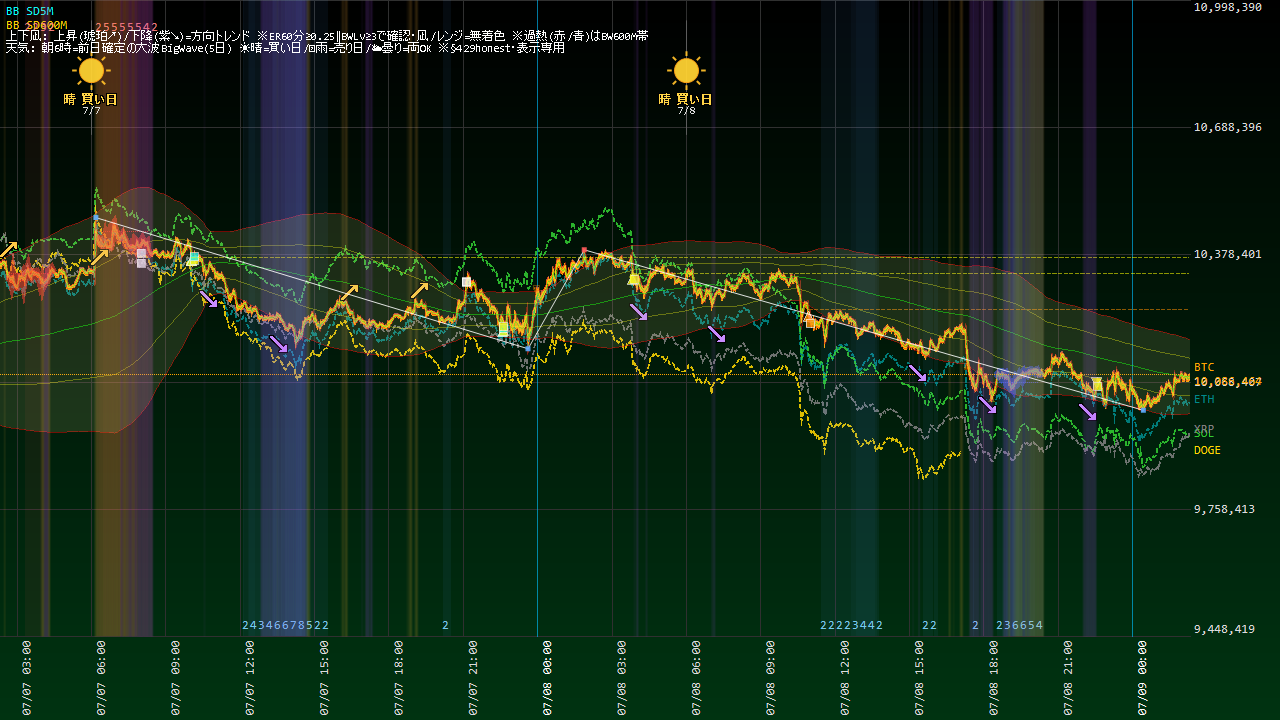
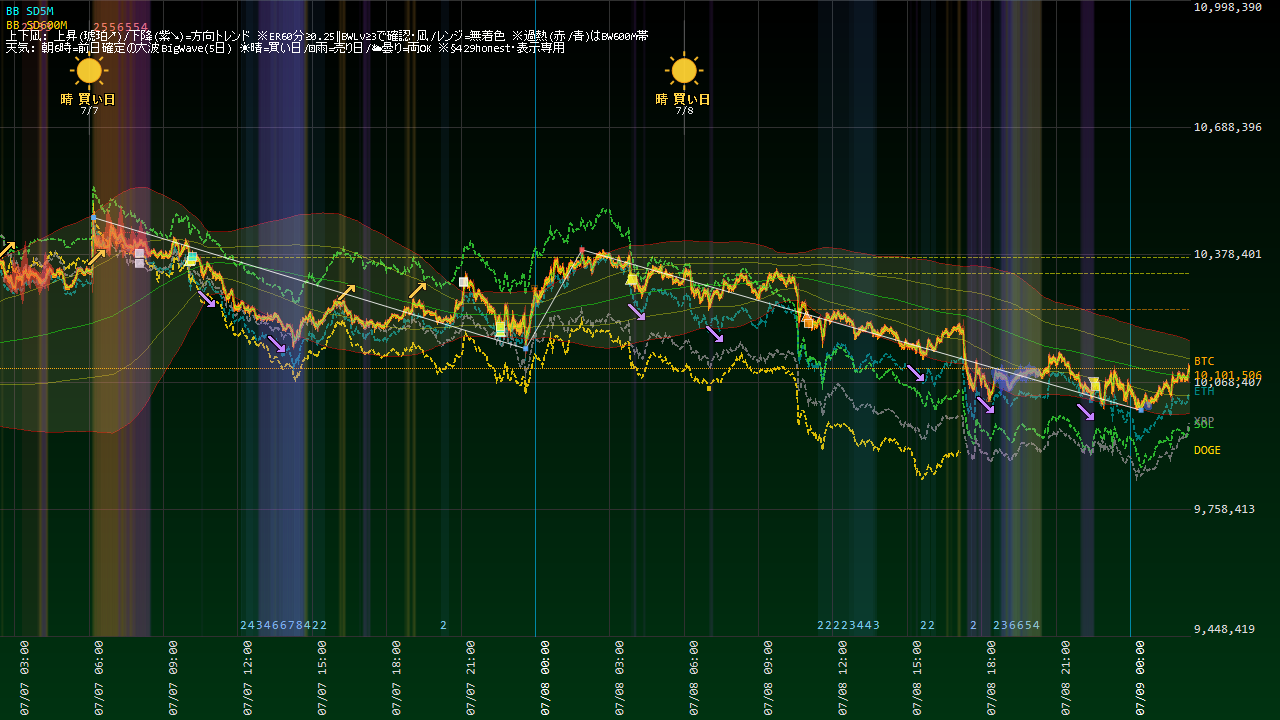
Coin100S 運用状況更新 07-09 02:29

diff --git a/coin100s-795hc4jfv8/index.html b/coin100s-795hc4jfv8/index.html
@@ -14,7 +14,7 @@ a{color:#60a5fa;text-decoration:none} a:hover{text-decoration:underline}
 .meta{color:#94a3b8;font-size:13px}</style>
 <script>setTimeout(function(){location.replace(location.pathname+"?t="+Date.now());},300000);</script></head><body>
 <h1>Coin100S ダッシュボード</h1>
-<p class="meta">スナップショット: 2026-07-09 02:22:57(自動リロード・最新化)</p>
+<p class="meta">スナップショット: 2026-07-09 02:28:57(自動リロード・最新化)</p>
 <div class="cards">
 <div class="card">建玉数<div class="v">0</div></div>
 <div class="card">本日損益<div class="v pos">+293円</div></div>
@@ -25,5 +25,5 @@ a{color:#60a5fa;text-decoration:none} a:hover{text-decoration:underline}
 <p><a href="status.html"><b>▶ 運用状況の詳細(チャート・本日の取引・レジーム)</b></a></p>
 <h2>日報一覧</h2>
 <table><tr><th>取引日</th><th>実現損益</th><th>総括</th></tr><tr><td><a href='reports/20260707_Coin100S日報.html'>2026-07-07</a></td><td class="pos">+0円</td><td class='meta'>実取引: 新規8件/決済6件、実現損益 +0円。シグナル却下4件（最多: SD120M_5M／トレンド方向ゲート(N分傾き上と不一致=逆張り方向のfade禁止)）。⚠警告/エラー 258件（要確認）。</td></tr><tr><td><a href='reports/20260706_Coin100S日報.html'>2026-07-06</a></td><td class="pos">+0円</td><td class='meta'>実取引: 新規9件/決済6件、実現損益 +0円。シグナル却下9件（最多: SD120M_5M／トレンド方向ゲート(N分傾き上と不一致=逆張り方向のfade禁止)）。⚠警告/エラー 150件（要確認）。</td></tr><tr><td><a href='reports/20260705_Coin100S日報.html'>2026-07-05</a></td><td class="pos">+0円</td><td class='meta'>実取引: 新規8件/決済3件、実現損益 +0円。⚠警告/エラー 2件（要確認）。</td></tr><tr><td><a href='reports/20260704_Coin100S日報.html'>2026-07-04</a></td><td class="pos">+0円</td><td class='meta'>実取引: 新規1件/決済2件、実現損益 +0円。⚠警告/エラー 2件（要確認）。</td></tr><tr><td><a href='reports/20260703_Coin100S日報.html'>2026-07-03</a></td><td class="pos">+0円</td><td class='meta'>実取引: 新規5件/決済4件、実現損益 +0円。⚠警告/エラー 15件（要確認）。</td></tr><tr><td><a href='reports/20260702_Coin100S日報.html'>2026-07-02</a></td><td class="pos">+0円</td><td class='meta'>実取引: 新規7件/決済5件、実現損益 +0円。シグナル却下17件（最多: SD120M_5M／トレンド方向ゲート(N分傾き上と不一致=逆張り方向のfade禁止)）。⚠警告/エラー 26件（要確認）。</td></tr><tr><td><a href='reports/20260701_Coin100S日報.html'>2026-07-01</a></td><td class="pos">+0円</td><td class='meta'>実取引: 新規14件/決済8件、実現損益 +0円。シグナル却下14件（最多: SD120M_5M／ボラ軸ゲート(SDN%&amp;gt;N%=高ボラ/荒れレンジ)）。⚠警告/エラー 2件（要確認）。</td></tr><tr><td><a href='reports/20260630_Coin100S日報.html'>2026-06-30</a></td><td class="pos">+0円</td><td class='meta'>実取引: 新規0件/決済1件、実現損益 +0円。シグナル却下29件（最多: 微5M／当日枠N）。警告/孤児/エラーなし＝健全。</td></tr></table>
-<hr><p class="meta">更新: 2026-07-09 02:23:22 / 自動生成: tools/web_publish.py(§580)</p>
+<hr><p class="meta">更新: 2026-07-09 02:29:09 / 自動生成: tools/web_publish.py(§580)</p>
 </body></html>

diff --git a/coin100s-795hc4jfv8/status.html b/coin100s-795hc4jfv8/status.html
@@ -14,14 +14,14 @@ a{color:#60a5fa;text-decoration:none} a:hover{text-decoration:underline}
 .meta{color:#94a3b8;font-size:13px}</style>
 <script>setTimeout(function(){location.replace(location.pathname+"?t="+Date.now());},300000);</script></head><body>
 <h1>Coin100S 運用状況</h1>
-<p class="meta">スナップショット: 2026-07-09 02:22:57 / ページ生成: 2026-07-09 02:23:22(自動リロード・最新化) / <a href="index.html">目次へ</a></p>
+<p class="meta">スナップショット: 2026-07-09 02:28:57 / ページ生成: 2026-07-09 02:29:09(自動リロード・最新化) / <a href="index.html">目次へ</a></p>
 <div class="cards">
 <div class="card">建玉数<div class="v">0</div></div>
 <div class="card">本日損益<div class="v pos">+293円</div></div>
 <div class="card">評価損益<div class="v ">?</div></div>
 </div>
 <h2>取引チャート(直近24h)</h2>
-<img src="status_chart.png?t=0223" alt="chart">
+<img src="status_chart.png?t=0229" alt="chart">
 <h2>建玉一覧</h2>
 <table><tr><th>銘柄</th><th>側</th><th>数量</th><th>建値</th><th>含損益</th><th>レッグ</th></tr><tr><td colspan=6>建玉なし(flat)</td></tr></table>
 <h2>実現決済履歴(直近15件・OrderId単位)</h2>
@@ -29,6 +29,6 @@ a{color:#60a5fa;text-decoration:none} a:hover{text-decoration:underline}
 <h2>本取引日の実取引(6:00起点)</h2>
 <table><tr><th>時刻</th><th>種別</th><th>側</th><th>銘柄</th><th>数量</th><th>指値</th></tr><tr><td>06:08:04</td><td>決済</td><td>BUY</td><td>LTC_JPY</td><td>1</td><td>7,165</td></tr><tr><td>06:38:03</td><td>決済</td><td>BUY</td><td>BCH_JPY</td><td>0.1</td><td>39,201</td></tr><tr><td>06:38:04</td><td>決済</td><td>BUY</td><td>BCH_JPY</td><td>0.1</td><td>39,201</td></tr><tr><td>06:38:05</td><td>決済</td><td>BUY</td><td>BCH_JPY</td><td>0.1</td><td>39,201</td></tr><tr><td>06:38:06</td><td>決済</td><td>BUY</td><td>BCH_JPY</td><td>0.1</td><td>39,201</td></tr><tr><td>10:56:33</td><td>新規</td><td>BUY</td><td>BTC_JPY</td><td>0.001</td><td>10,234,771</td></tr><tr><td>11:01:33</td><td>決済</td><td>SELL</td><td>BTC_JPY</td><td>0.001</td><td>10,180,942</td></tr><tr><td>11:01:34</td><td>決済</td><td>SELL</td><td>BTC_JPY</td><td>0.001</td><td>10,180,942</td></tr><tr><td>22:32:47</td><td>新規</td><td>SELL</td><td>BTC_JPY</td><td>0.002</td><td>10,061,419</td></tr></table>
 <h2>現在レジーム(3軸・§570c)</h2>
-<ul><li>アルト対BTC 5日: <b>-135bps</b>(アルト劣後=RELVAL順風)</li><li>BTC ER240m: <b>0.043</b>(閾値0.25→レンジ(fade順風/BWTRD逆風))</li><li>BTC実現ボラ240m: <b>7.38</b> bps/分</li></ul>
+<ul><li>アルト対BTC 5日: <b>-135bps</b>(アルト劣後=RELVAL順風)</li><li>BTC ER240m: <b>0.058</b>(閾値0.25→レンジ(fade順風/BWTRD逆風))</li><li>BTC実現ボラ240m: <b>7.27</b> bps/分</li></ul>
 <hr><p class="meta">自動生成: tools/web_publish.py(§580・読み取り専用)。売買判断はアプリ本体。</p>
 </body></html>
